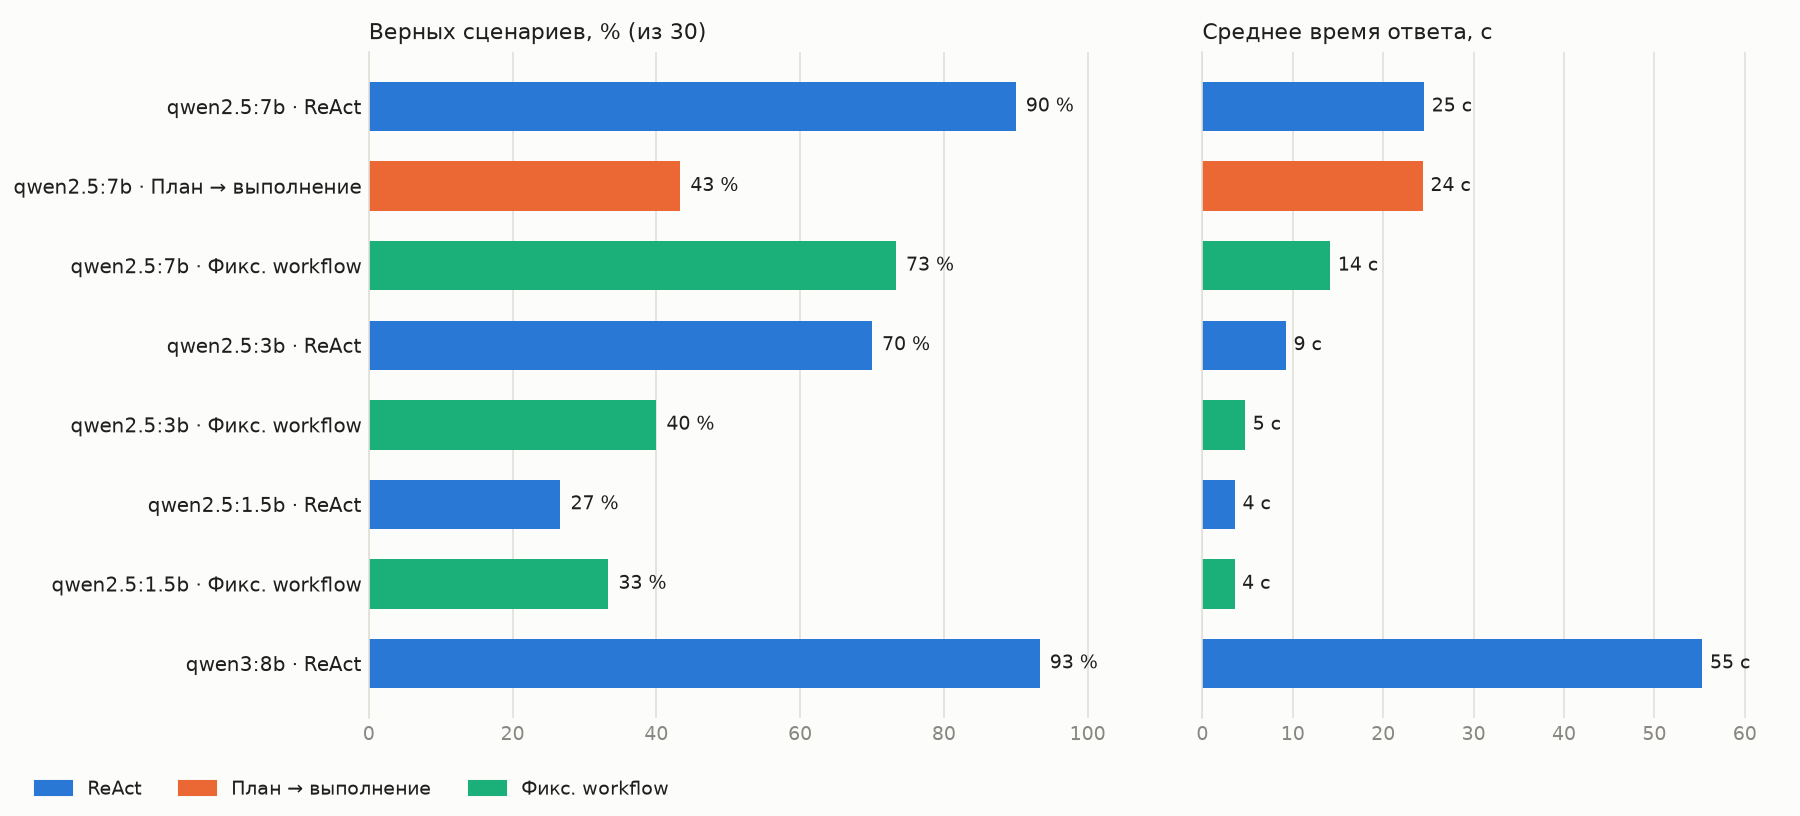
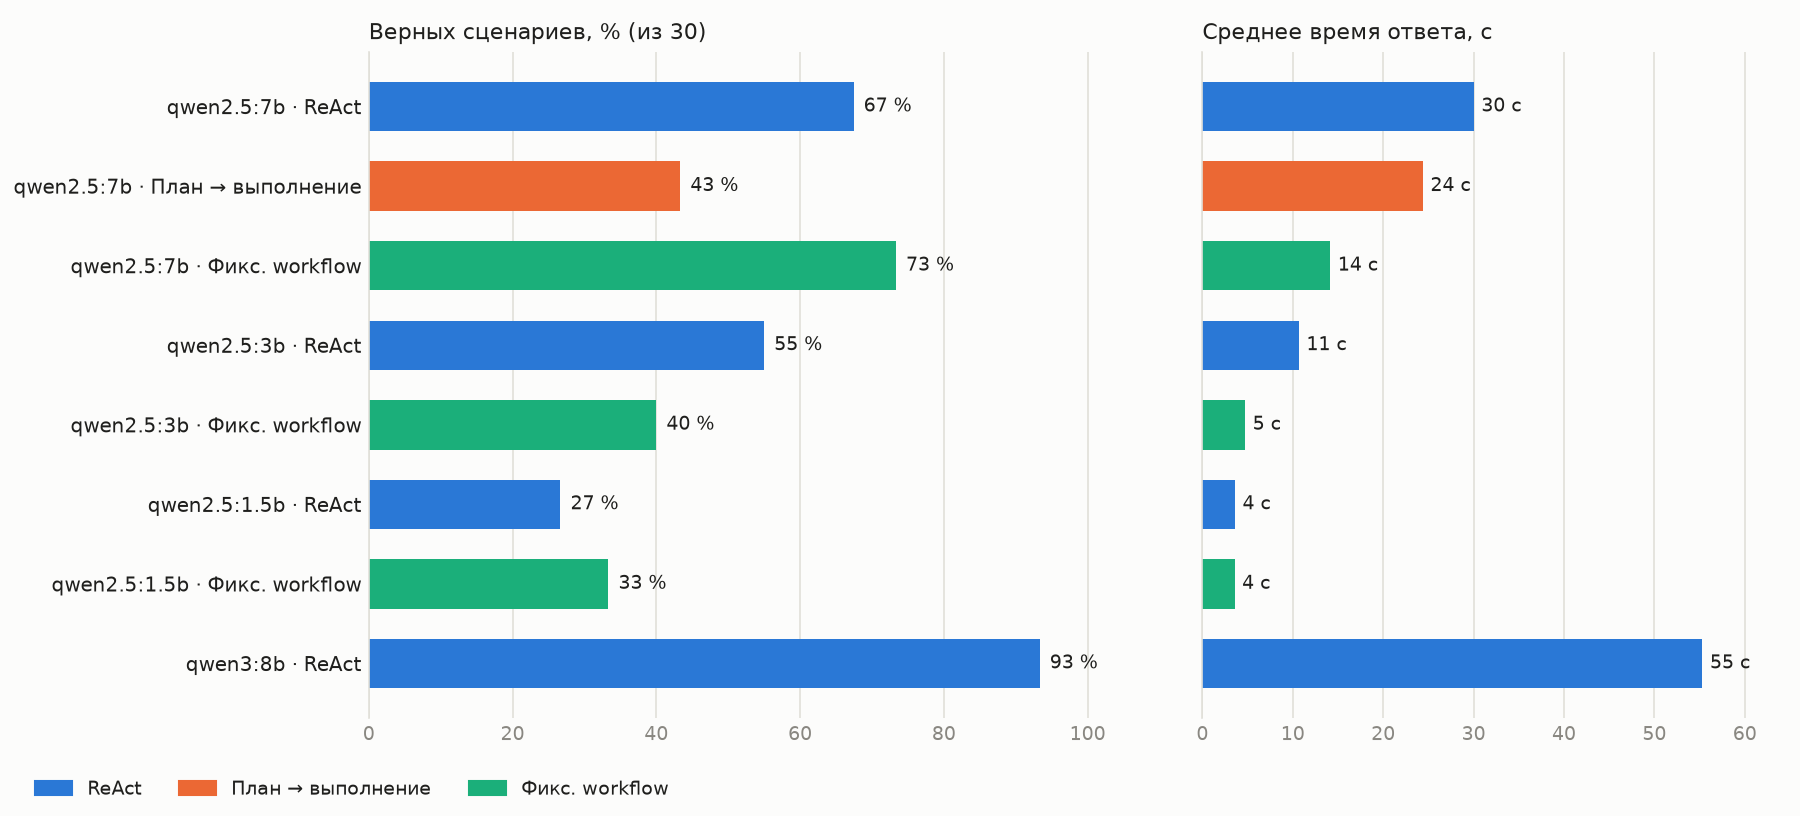
eval/compare: брать только полные прогоны

diff --git a/eval/compare.py b/eval/compare.py
@@ -32,8 +32,12 @@ ARCH_COLOR = {"react": "#2a78d6", "plan": "#eb6834", "workflow": "#1baf7a"}   # 
 
 
 def latest(arch, model):
-    files = sorted(RESULTS.glob(f"agent_{arch}_{model.replace(':', '-')}_*.json"))
-    return json.loads(files[-1].read_text(encoding="utf-8")) if files else None
+    """Последний полный прогон (выборочные — eval_agent S01 H03 — пропускаются)."""
+    for f in sorted(RESULTS.glob(f"agent_{arch}_{model.replace(':', '-')}_*.json"), reverse=True):
+        data = json.loads(f.read_text(encoding="utf-8"))
+        if data["summary"]["scenarios"] >= 30:
+            return data
+    return None
 
 
 def collect():

diff --git a/eval/COMPARISON.md b/eval/COMPARISON.md
@@ -8,10 +8,10 @@
 
 | Архитектура | Модель | Всего верно | S+N | A | H (отложенный) | Precision / Recall | Категория | Числа | Вне темы | Отброшено проверкой | Время, с |
 |---|---|---|---|---|---|---|---|---|---|---|---|
-| ReAct | `qwen2.5:7b` | **27/30** | 16/16 | 4/6 | 7/8 | 1,00 / 0,94 | 100 % | 2/2 | 2/2 | 0 | 25 |
+| ReAct | `qwen2.5:7b` | **29/43** | 14/16 | 5/6 | 8/12 | 1,00 / 0,77 | 100 % | 2/2 | 2/2 | 4 | 30 |
 | План → выполнение | `qwen2.5:7b` | **13/30** | 7/16 | 3/6 | 3/8 | 1,00 / 0,35 | 100 % | 1/2 | 2/2 | 1 | 24 |
 | Фикс. workflow | `qwen2.5:7b` | **22/30** | 12/16 | 4/6 | 6/8 | 0,95 / 0,65 | 100 % | 2/2 | 2/2 | 1 | 14 |
-| ReAct | `qwen2.5:3b` | **21/30** | 12/16 | 4/6 | 5/8 | 1,00 / 0,61 | 95 % | 2/2 | 2/2 | 6 | 9 |
+| ReAct | `qwen2.5:3b` | **22/40** | 12/16 | 4/6 | 5/12 | 1,00 / 0,65 | 95 % | 2/2 | 2/2 | 12 | 11 |
 | Фикс. workflow | `qwen2.5:3b` | **12/30** | 6/16 | 3/6 | 3/8 | 1,00 / 0,26 | 75 % | 1/2 | 1/2 | 9 | 5 |
 | ReAct | `qwen2.5:1.5b` | **8/30** | 4/16 | 1/6 | 3/8 | 1,00 / 0,03 | 100 % | 1/2 | 2/2 | 1 | 4 |
 | Фикс. workflow | `qwen2.5:1.5b` | **10/30** | 4/16 | 3/6 | 3/8 | 0,89 / 0,26 | 62 % | 0/2 | 2/2 | 5 | 4 |
